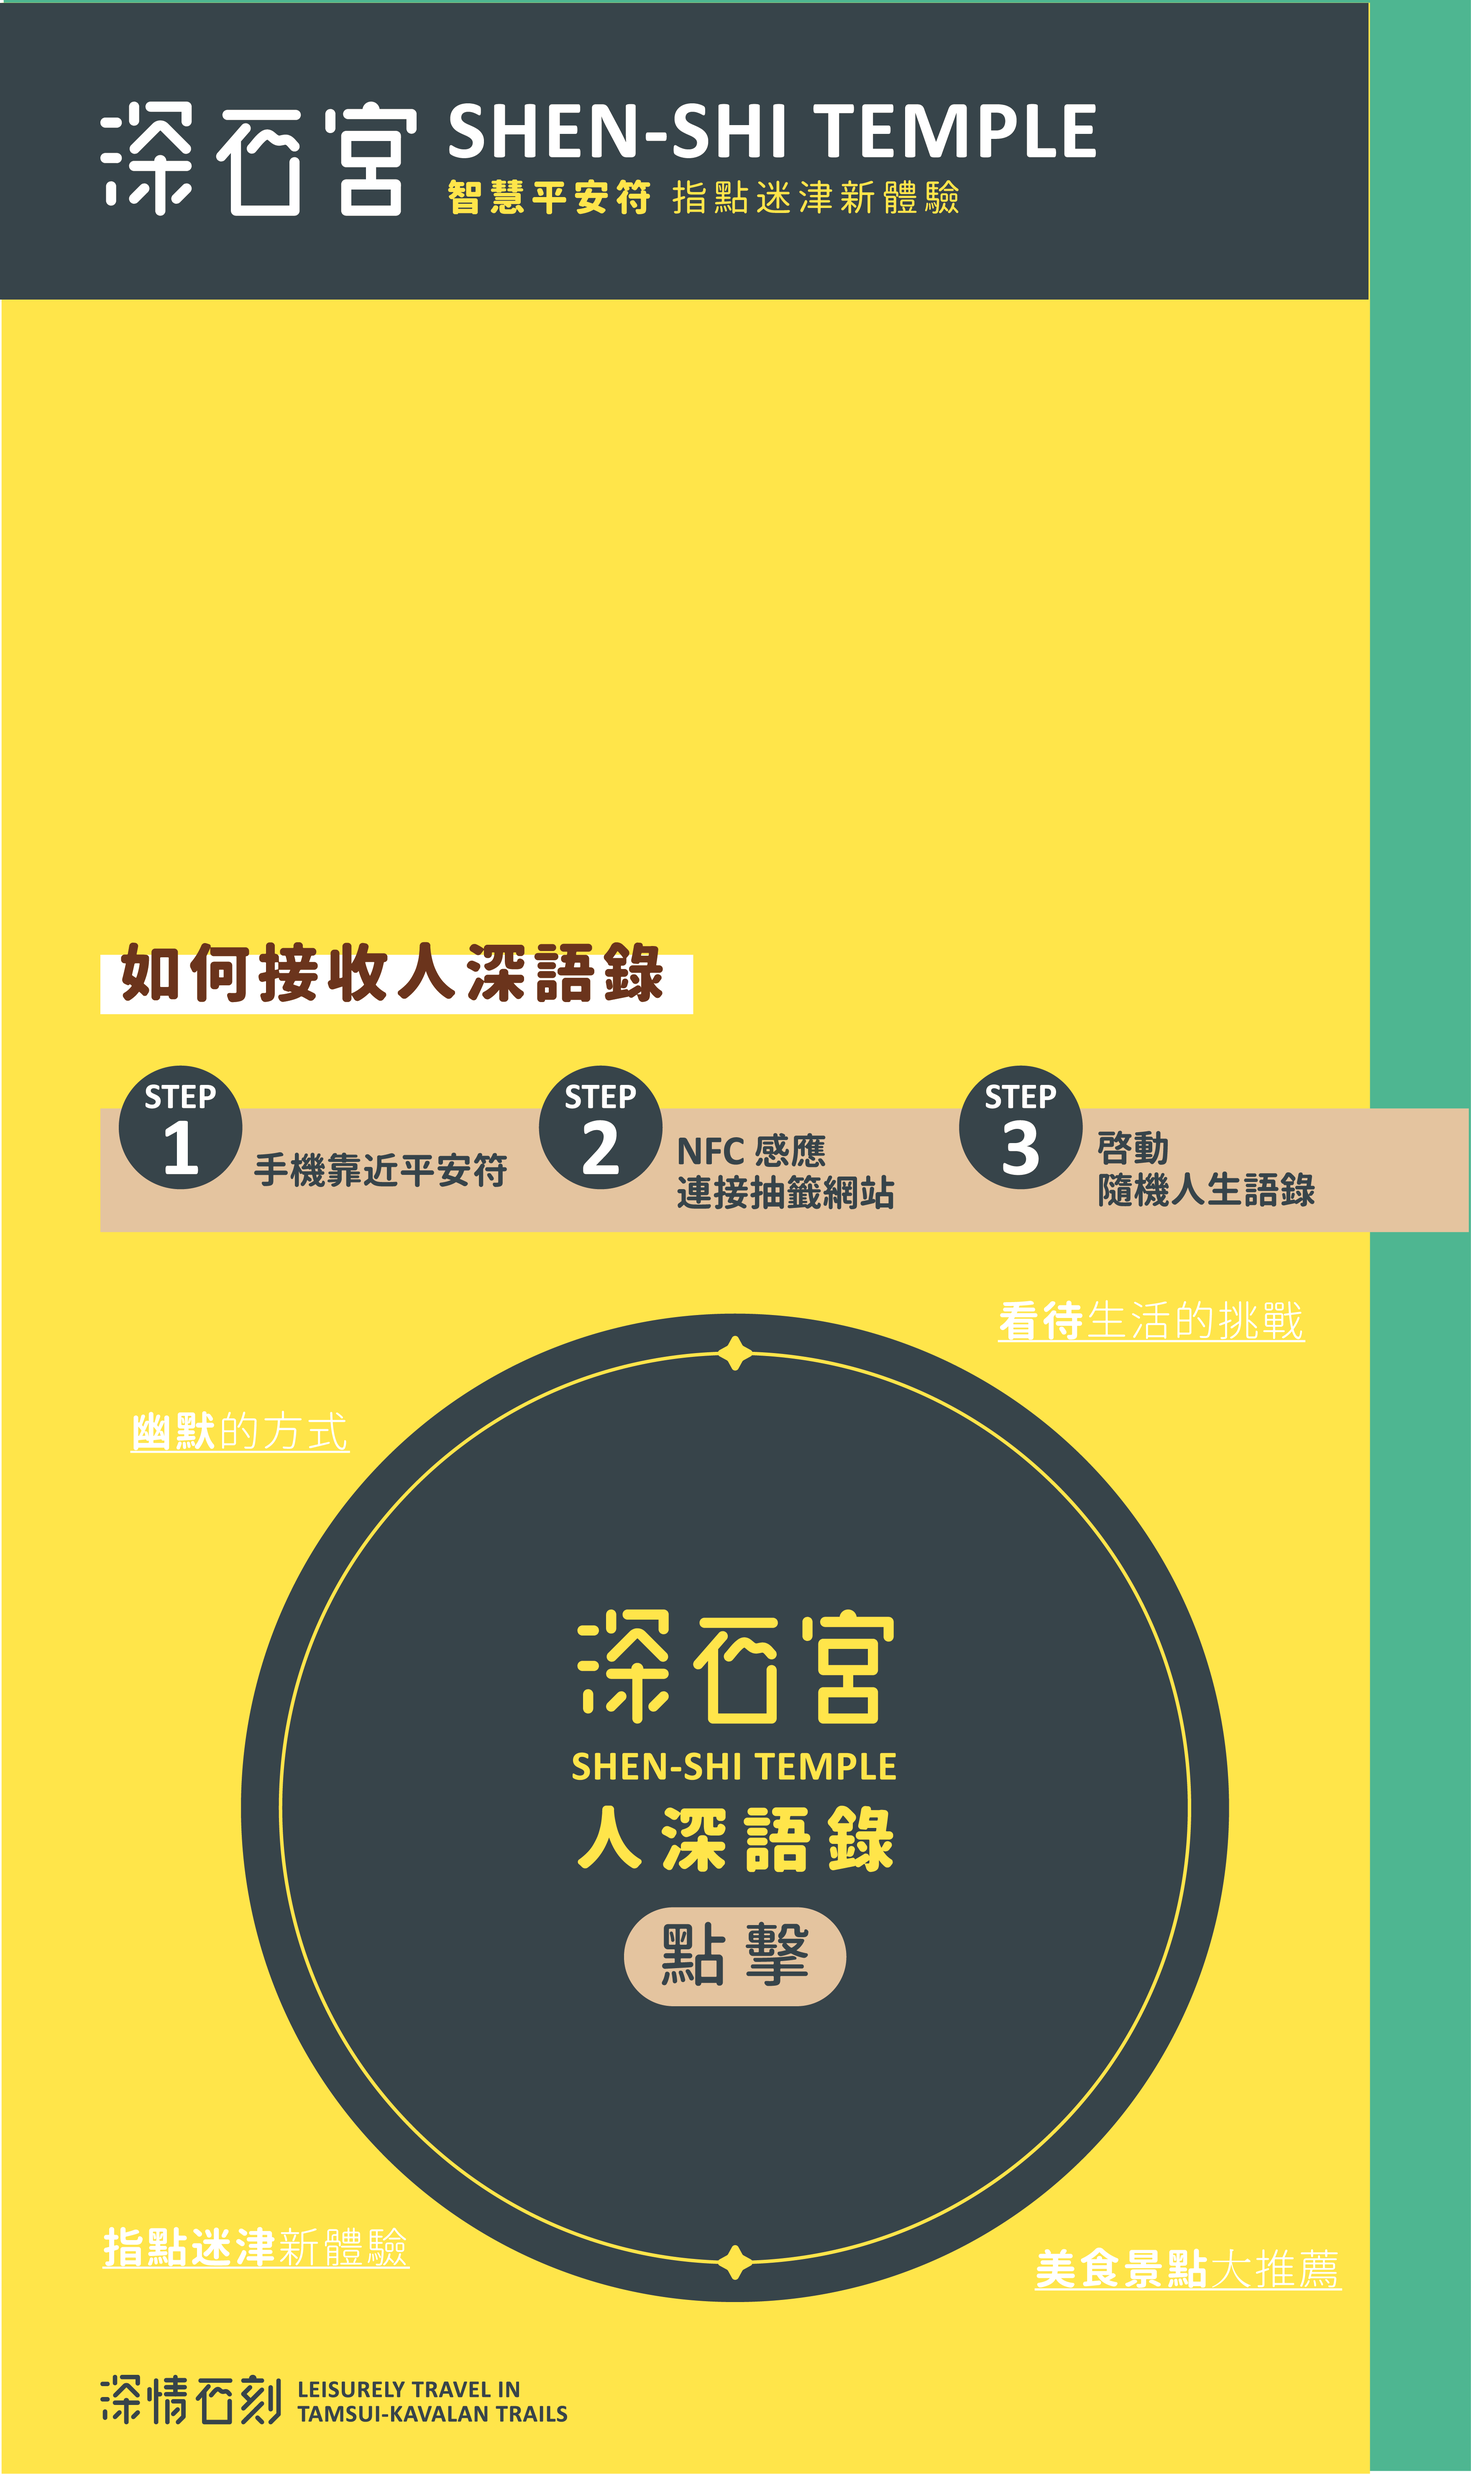
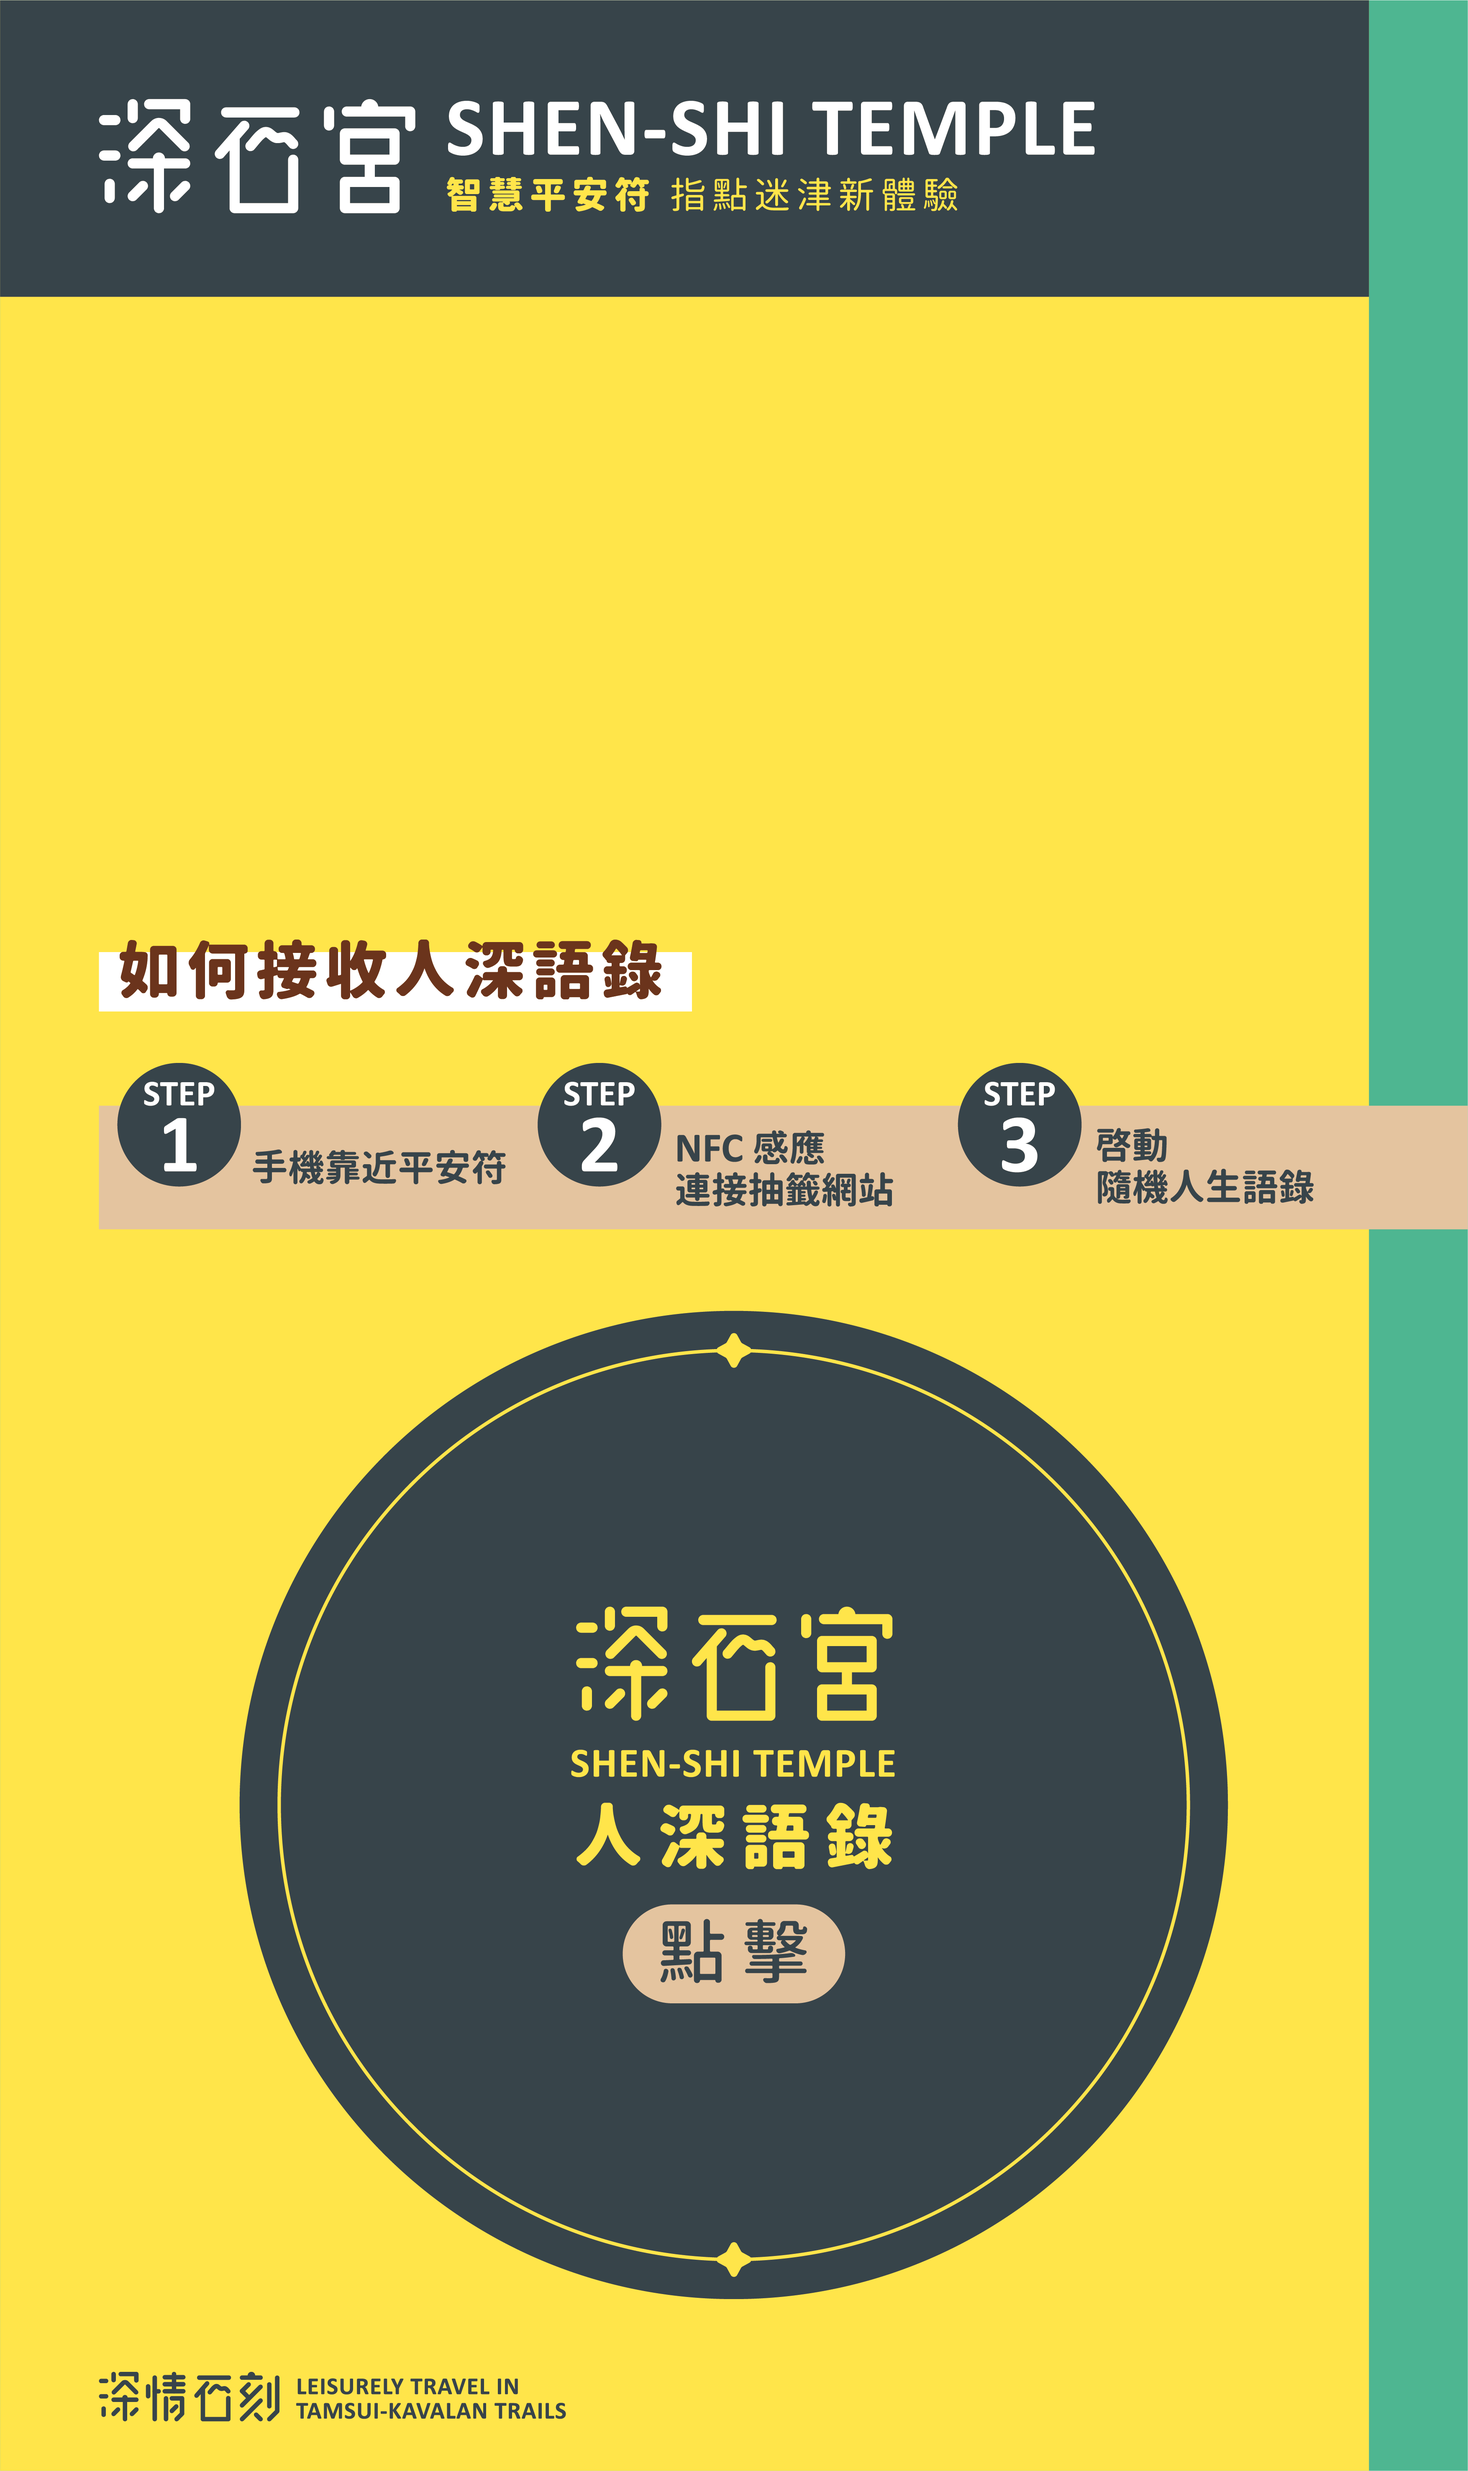
修改 - 動態化物件

diff --git a/src/assets/css/appSenShihGong.css b/src/assets/css/appSenShihGong.css
@@ -7,15 +7,47 @@ html, body {
   }
   
   .image-container {
-    position: absolute; /* 或 fixed, 根據你的需求 */
+    position: fixed;
     left: 50%;
     transform: translateX(-50%);
     z-index: 1000;
-    width: 200px;
+    width: auto;/* 預設寬度 */
+    transition: all 0.3s ease-in-out; /* 保留平滑過渡 */
   }
+
+  .text-overlay {
+    top: 20%;
+    position: absolute;
+    left: 0;
+    width: 100%;
+    height: 100%;
+    pointer-events: none; /* 防止文字干擾點擊 */
+  }
+  
+  .animated-text {
+    position: absolute;
+    transform: translate(-50%, -50%); /* 使文字以中心點定位 */
+    font-size: 12px;
+    font-weight: bold;
+    color: #fff;
+    opacity: 0;
+    animation: fadeInUp 1s forwards;
+  }
+  
+  @keyframes fadeInUp {
+    from {
+      opacity: 0;
+      transform: translateY(10px);
+    }
+    to {
+      opacity: 1;
+      transform: translateY(0);
+    }
+  }
+
+
 /* 圖片 */
 .swing-image {
-  max-width: 400px;
   width: 100%;
   height: auto;
   animation: slide-in 1s ease-out, swing 3s infinite ease-in-out;
@@ -256,10 +288,7 @@ html, body {
   
   /* 響應式設計 */
   @media screen and (min-width: 1025px) {
-    .image-container {
-      top: 30%;
-      width: 200px;
-    }
+
     .background {
       width: 100vw; /* 占滿視窗寬度 */
       background-size: contain; /* 確保背景圖片覆蓋整個區域 */
@@ -278,10 +307,6 @@ html, body {
   }
   
   @media screen and (max-width: 1024px) {
-    .image-container {
-      top: 30%;
-      max-width: 200px;
-    }
       .background {
       width: 100vw; /* 占滿視窗寬度 */
       background-size: contain; /* 確保背景圖片覆蓋整個區域 */
@@ -294,11 +319,6 @@ html, body {
   
   /* 手機 (最大寬度 768px) */
   @media screen and (max-width: 768px) {
-    .image-container {
-      top: 30%;
-      width: 400px;
-    }
-
     .background {
       width: 100vw; /* 占滿視窗寬度 */
       background-size: contain; /* 確保背景圖片覆蓋整個區域 */
@@ -315,11 +335,6 @@ html, body {
   
   /* 小型手機 (最大寬度 480px) */
   @media screen and (max-width: 480px) {
-    .image-container {
-      top: 30%;
-      max-width: 350px;
-    }
-    
     .background {
       width: 100vw; /* 占滿視窗寬度 */
       background-size: contain; /* 確保背景圖片覆蓋整個區域 */
@@ -335,10 +350,6 @@ html, body {
   }
   
   @media screen and (max-width:440px) {
-    .image-container {
-      top: 15%;
-      max-width: 350px;
-    }
     .background {
       width: 100vw; /* 占滿視窗寬度 */
       background-size: contain; /* 確保背景圖片覆蓋整個區域 */
@@ -355,10 +366,7 @@ html, body {
     }
   }
   @media screen and (max-width:400px) {
-    .image-container {
-      top: 200%;
-      max-width: 350px;
-    }
+
     .background {
       width: 100vw; /* 占滿視窗寬度 */
       background-size: contain; /* 確保背景圖片覆蓋整個區域 */

diff --git a/src/views/AppShenShihGong.vue b/src/views/AppShenShihGong.vue
@@ -25,6 +25,16 @@
     <!-- 背景和彈窗功能 -->
     <div class="background">
       <!-- 點擊區域 -->
+        <div class="text-overlay">
+    <p
+      class="animated-text"
+      v-for="(line, index) in textLines"
+      :key="index"
+      :style="{ top: line.top, left: line.left, animationDelay: `${index * 1}s` }"
+    >
+      {{ line.text }}
+    </p>
+  </div>
       <div class="click-circle" @click="openModal"></div>
 
     </div>
@@ -44,14 +54,60 @@ export default {
       isModalOpen: false,
       selectedImage: null, // 儲存隨機選中的圖片物件
       images: [],
-
+      textLines: [
+      { text: "幽默的方式", top: "32%", left: "8%" },
+      { text: "期待生活的挑戰", top: "30%", left: "70%" },
+      { text: "指點迷津新體驗", top: "60%", left: "8%" },
+      { text: "美食景點大推薦", top: "60%", left: "70%" }
+      ]    
     };
   },
   created() {
     this.loadImages(); // 在組件創建時加載圖片
   },
+  mounted() {
+    this.adjustImageContainer(); // 初始化時調整位置與大小
+    window.addEventListener("resize", this.adjustImageContainer); // 監聽螢幕尺寸變化
+  },
+  beforeUnmount() {
+    window.removeEventListener("resize", this.adjustImageContainer); // 清理監聽器
+  },
 
   methods: {
+    
+    adjustImageContainer() {
+      const container = document.querySelector(".image-container");
+      const screenWidth = window.innerWidth;
+      const screenHeight = window.innerHeight;
+
+      // 根據螢幕大小調整樣式
+      if (screenWidth > 1024) {
+        container.style.top = `${screenHeight * -0.2}px`;
+        container.style.width = "400px";
+      } else if (screenWidth == 1024 ) {
+        container.style.top = `${screenHeight * -0.05}px`;
+        container.style.width = "650px";
+      } else if (screenWidth < 1024 && screenWidth > 768) {
+        container.style.top = `${screenHeight * -0.08}px`;
+        container.style.width = "600px";
+      } else if (screenWidth == 768) {
+        container.style.top = `${screenHeight * 0.06}px`;
+        container.style.width = "490px";
+      } else if (screenWidth < 768 && screenWidth > 480) {
+        container.style.top = `${screenHeight * 0.02}px`;
+        container.style.width = "350px";
+      } else if (screenWidth <= 480 && screenWidth > 375) {
+        container.style.top = `${screenHeight * 0.13}px`;
+        container.style.width = "340px";
+      } else if (screenWidth == 375) {
+        container.style.top = `${screenHeight * 0.05}px`;
+        container.style.width = "320px";
+      } else {
+        container.style.top = `${screenHeight * 0.11}px`;
+        container.style.width = "300px";
+      }
+    },
+
     // 加載資料夾中的所有圖片
     loadImages() {
       const requireContext = require.context(
